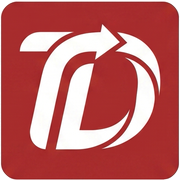
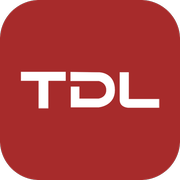
로고를 TDL LAB 워드마크로 교체
새로 받은 TDL LAB 로고로 상단 메뉴바·첫 화면·푸터·파비콘을 모두 바꿨다.
스크롤을 내리면 나오던 텍스트 'TDL.' 헤드라인도 같은 로고 이미지로 대체하고,
스크린리더용 대체 텍스트를 남겼다.

원본이 이미 투명 배경이라 여백만 잘라내고 3배로 확대해 썼다. 파비콘은
가로로 긴 워드마크를 그대로 넣으면 16px에서 뭉개져서, 브랜드 레드 라운드
사각형 안에 흰색 TDL을 넣은 정사각 아이콘으로 만들었다.

Claude-Session: https://claude.ai/code/session_01NNokZRPRvEpoxRDJPTuNT5

diff --git a/src/components/ScrollIntro.tsx b/src/components/ScrollIntro.tsx
@@ -1,6 +1,7 @@
 import { lazy, Suspense, useRef } from 'react'
 import { useScrollProgress, clampMap } from '../hooks/useScrollProgress'
 import BlueprintFrame from './BlueprintFrame'
+import { Logo } from './ui/Logo'
 
 const HeroBackground = lazy(() => import('../three/HeroBackground'))
 
@@ -55,8 +56,9 @@ export default function ScrollIntro() {
             <p className="mb-4 font-mono text-xs uppercase tracking-[0.3em] text-brand">
               Tech Innovation Team
             </p>
-            <h1 className="font-display text-7xl font-bold leading-[0.9] text-warm-800 md:text-8xl">
-              TDL<span className="text-brand">.</span>
+            <h1>
+              <Logo className="mx-auto h-20 md:mx-0 md:h-28" />
+              <span className="sr-only">TDL Lab</span>
             </h1>
             <p className="mt-3 font-mono text-sm uppercase tracking-[0.25em] text-warm-600">
               Tech Driven Logistics

diff --git a/src/components/ui/Logo.tsx b/src/components/ui/Logo.tsx
@@ -19,8 +19,8 @@ export function Logo({
     <img
       src={src}
       alt="TDL · Tech Driven Logistics"
-      width={265}
-      height={96}
+      width={597}
+      height={240}
       className={cn('h-8 w-auto select-none', className)}
       draggable={false}
     />
